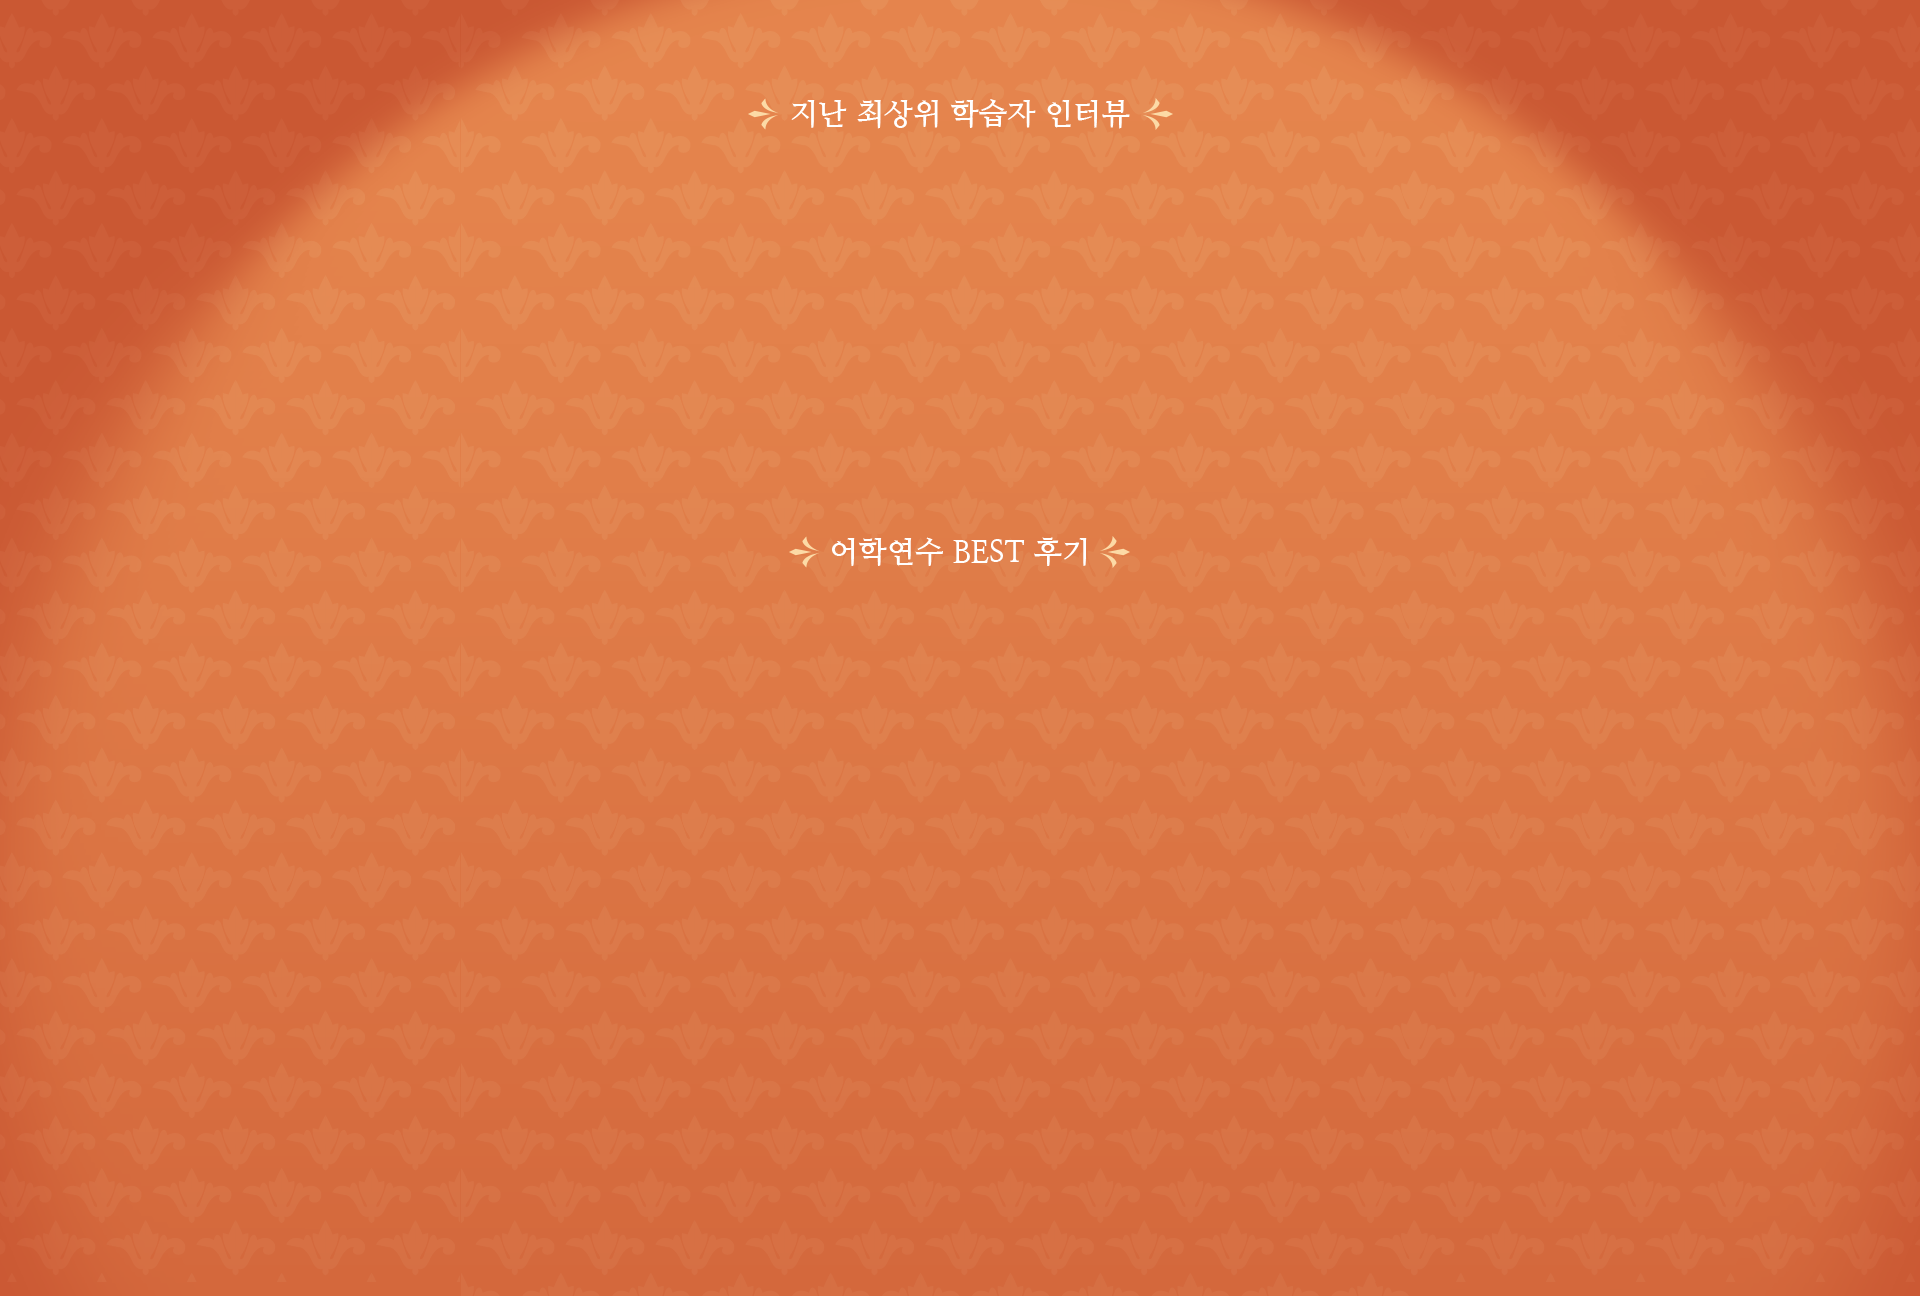
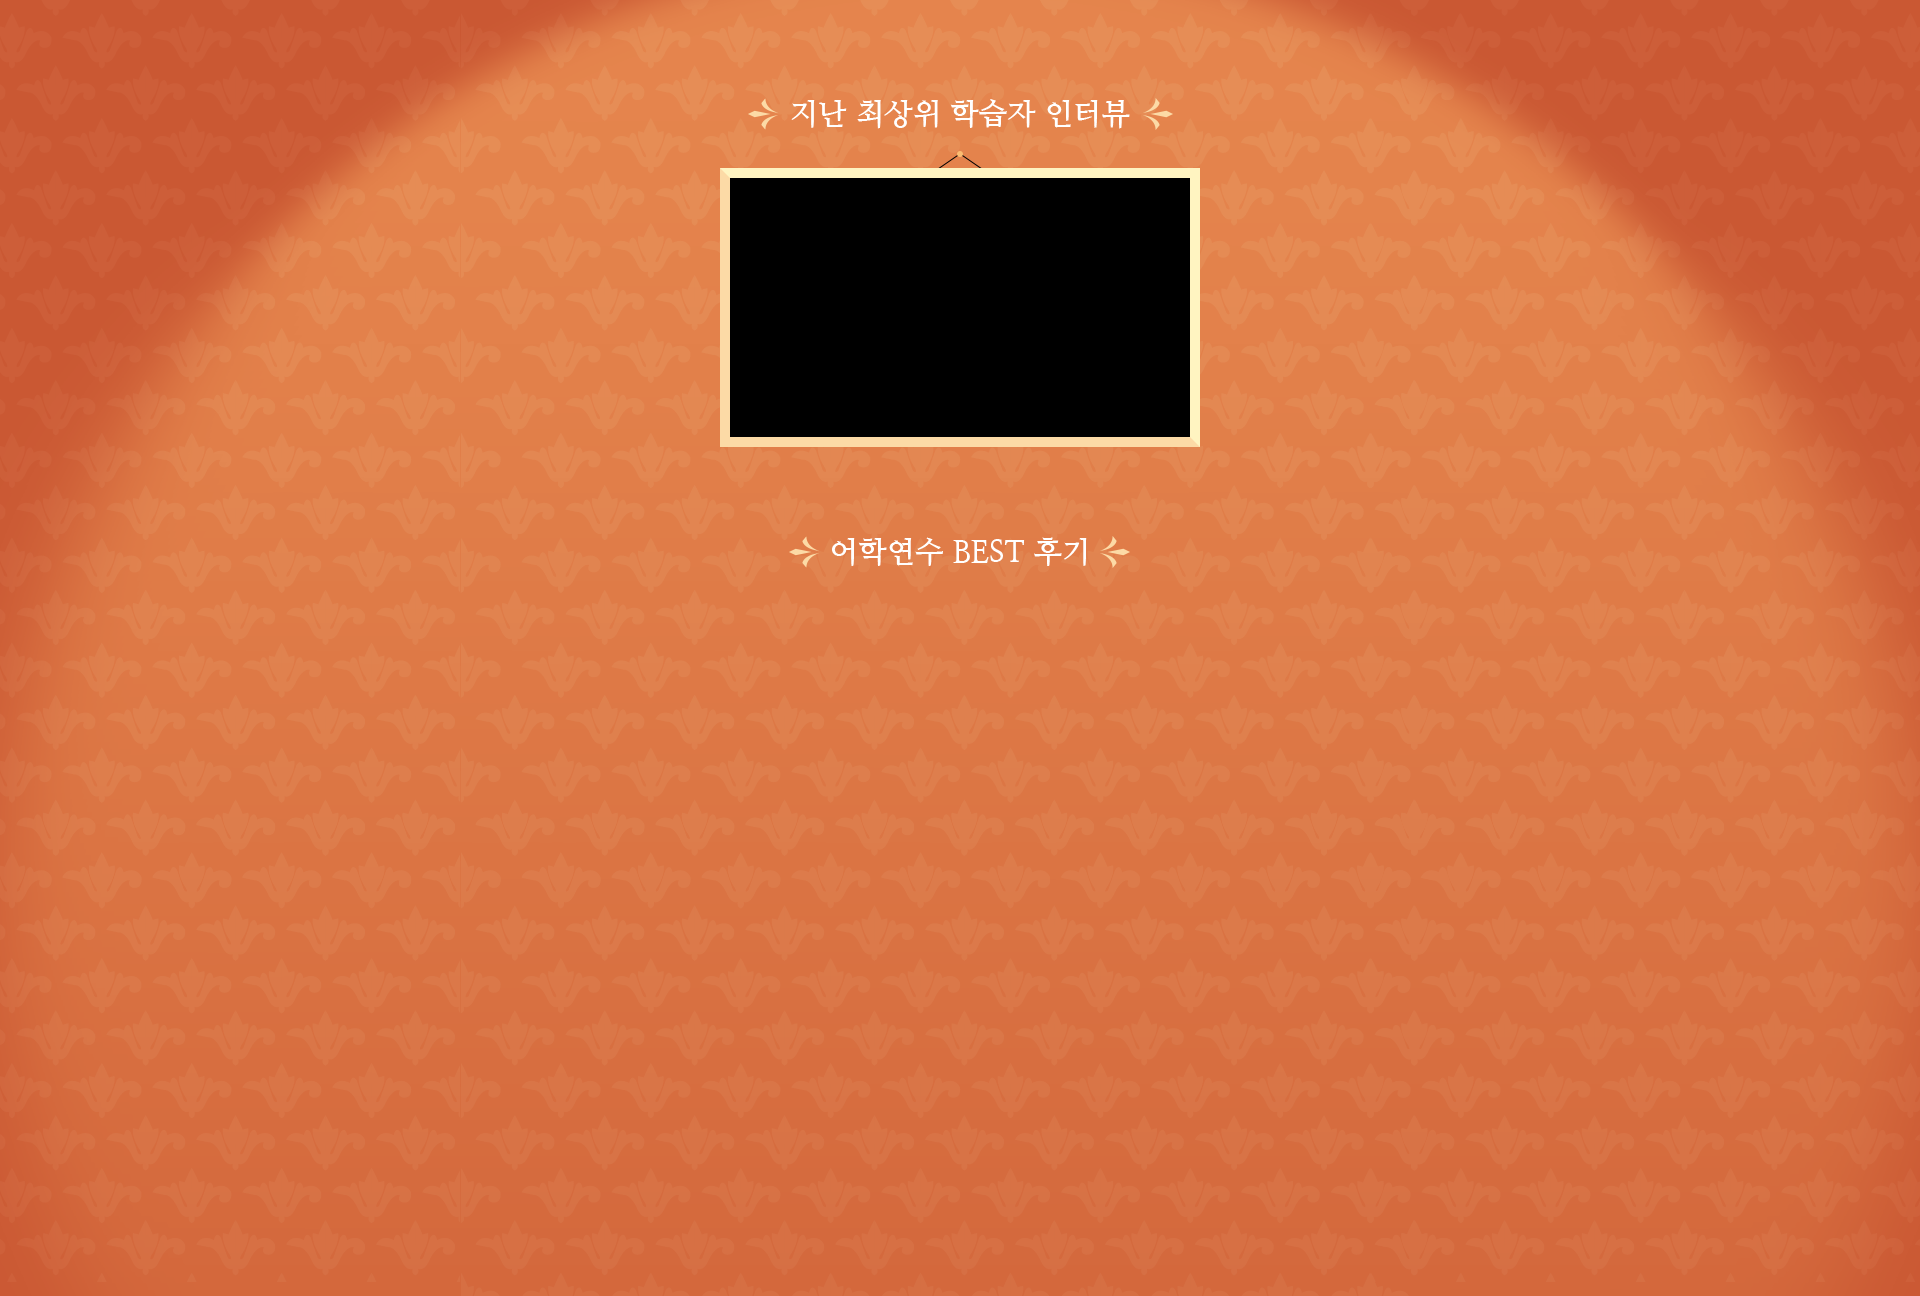
sec4까지성공우하하

Changed region(s): [[0.375, 0.1235, 0.625, 0.3704]]

diff --git a/styles/style.css b/styles/style.css
@@ -1,3 +1,4 @@
+/* font-weight에서 light는 400으로 지정 > 300 너무 얇음 */
 main {}
 /* sec1 */
 main #sec1_bg {
@@ -54,21 +55,66 @@ main #sec2_bg #guide_wrapper .deadline_bedge img {width: 100%;}
 main #sec3_bg {width: 100%; background: url(../images/sec3/sec3_bg.png) no-repeat center; background-size: cover;}
 main #sec3_bg #sec3 {
     width: 1000px; height: 1296px; margin: 0 auto; position: relative;
-    display: flex; flex-flow: column nowrap; align-items: center;
 }
-main #sec3_bg #sec3 .frame {
-    background-image: url(../images/sec3/frmae.png);
-    background-size: cover;
-    width: 480px; height: 296px;
-    margin: 151px 0 141px;
+main #sec3_bg #sec3 .interview_video {
+    position: absolute; top: 178px; left: calc(50% - 230px);
 }
-main #sec3_bg #sec3 .frame video {
-    width: 460px; height: 259px; margin: 0 auto;
+main #sec3_bg #sec3 .interview_video video {
+    width: 460px; height: 259px;
 }
-main #sec3_bg #sec3 .best_review {}
-main #sec3_bg #sec3 .best_review a {}
-main #sec3_bg #sec3 .best_review a img {}
-main #sec3_bg #sec3 .review_all {}
-main #sec3_bg #sec3 .review_all a {}
-main #sec3_bg #sec3 .yuji {}
-main #sec3_bg #sec3 .yuji img {}
+main #sec3_bg #sec3 .best_review {
+    position: absolute; bottom: 210px; left: calc(50% - 480px);
+    display: flex; flex-flow: row wrap; justify-content: space-between;
+    height: 497px;
+}
+main #sec3_bg #sec3 .best_review a {
+    width: 300px; height: 243px;
+}
+main #sec3_bg #sec3 .best_review a img {width: 100%;}
+main #sec3_bg #sec3 .review_all {
+    position: absolute; bottom: 100px; left: 50%;
+    transform: translateX(-50%);
+}
+main #sec3_bg #sec3 .review_all a {
+    font-family: 'notosnas_cjk'; font-weight: 500; font-size: 20px;
+    color: #ffffff; background-color: #2e2c27;
+    display: inline-block; text-align: center; padding: 25px 81px;
+    border-radius: 5px;
+}
+main #sec3_bg #sec3 .yuji {
+    width: 165px; height: 232.14px; position: absolute;
+    bottom: 0; right: 0;
+}
+main #sec3_bg #sec3 .yuji img {width: 100%;}
+/* sec4 */
+main #sec4_bg {
+    width: 100%; background: url(../images/sec4/sec4_bg.png) no-repeat center; background-size: cover;
+}
+main #sec4_bg #sec4 {
+    width: 1200px; height: 905px; margin: 0 auto; position: relative;
+}
+main #sec4_bg #sec4 .blackboard {
+    width: 1000px; height: 571px; position: absolute; top: 150px;
+    left: calc(50% - 500px);
+}
+main #sec4_bg #sec4 .blackboard img {width: 100%;}
+main #sec4_bg #sec4 .h2 {
+    position: absolute; top: 230px; left: 50%; 
+    transform: translateX(-50%);
+}
+main #sec4_bg #sec4 .h2 h2 {
+    font-family: '나눔명조'; font-weight: 700; font-size: 30px;
+    color: #ffffff; 
+}
+main #sec4_bg #sec4 .target_time {
+    position: absolute; top: 631px; left: 50%; transform: translateX(-50%);
+    font-family: 'notosnas_cjk'; font-weight: 400; font-size: 15px;
+    color: #ffffff;
+}
+main #sec4_bg #sec4 .target_time em {font-weight: 500;}
+main #sec4_bg #sec4 .yuji {
+    width: 150px; height: 232.90px; position: absolute;
+    bottom: 0; left: 220px;
+}
+main #sec4_bg #sec4 .yuji img {width: 100%;}
+/* sec5 */

diff --git a/index.html b/index.html
@@ -40,7 +40,7 @@
         <!-- sec3 -->
         <section id="sec3_bg">
             <ul id="sec3">
-                <li class="frame">
+                <li class="interview_video">
                     <video src="./video/video.mp4" autoplay muted loop controls></video>
                 </li>
                 <li class="best_review">
@@ -52,11 +52,21 @@
                     <a href="https://cafe.naver.com/useschool/29904" target="_blank"><img src="./images/sec3/review6.png" alt="이번 어학연수는 도전하는데 의의를 두고 신청했습니다. 이런 생각 덕분인지, 학원 끝나고 밤 늦게 노트북을 먼저 켰어요. 결국 33일 중 28일 달성했네요."></a>
                 </li>
                 <li class="review_all">
-                    <a href="https://cafe.naver.com/useschool?iframe_url=/ArticleList.nhn%3Fsearch.clubid=28960018%26search.menuid=199%26search.boardtype=L">어학연수 후기 모두 보기</a>
+                    <a href="https://cafe.naver.com/useschool?iframe_url=/ArticleList.nhn%3Fsearch.clubid=28960018%26search.menuid=199%26search.boardtype=L" target="_blank">어학연수 후기 모두 보기</a>
                 </li>
                 <li class="yuji"><img src="./images/sec3/yuji_return.png" alt=""></li>
             </ul>
         </section>
+        <!-- sec4 -->
+        <section id="sec4_bg">
+            <ul id="sec4">
+                <li class="blackboard"><img src="./images/sec4/blackboard.png" alt=""></li>
+                <li class="h2"><h2>21일 달성기준</h2></li>
+                <li class="target_time"><em>*목표시간</em> 어학연수 신청 시, 내가 선택한 하루 목표 학습시간</li>
+                <li class="yuji"><img src="./images/sec4/yuji_cheers.png" alt=""></li>
+            </ul>
+        </section>
+        <!-- sec5 -->
     </main>
 </body>
 </html>
